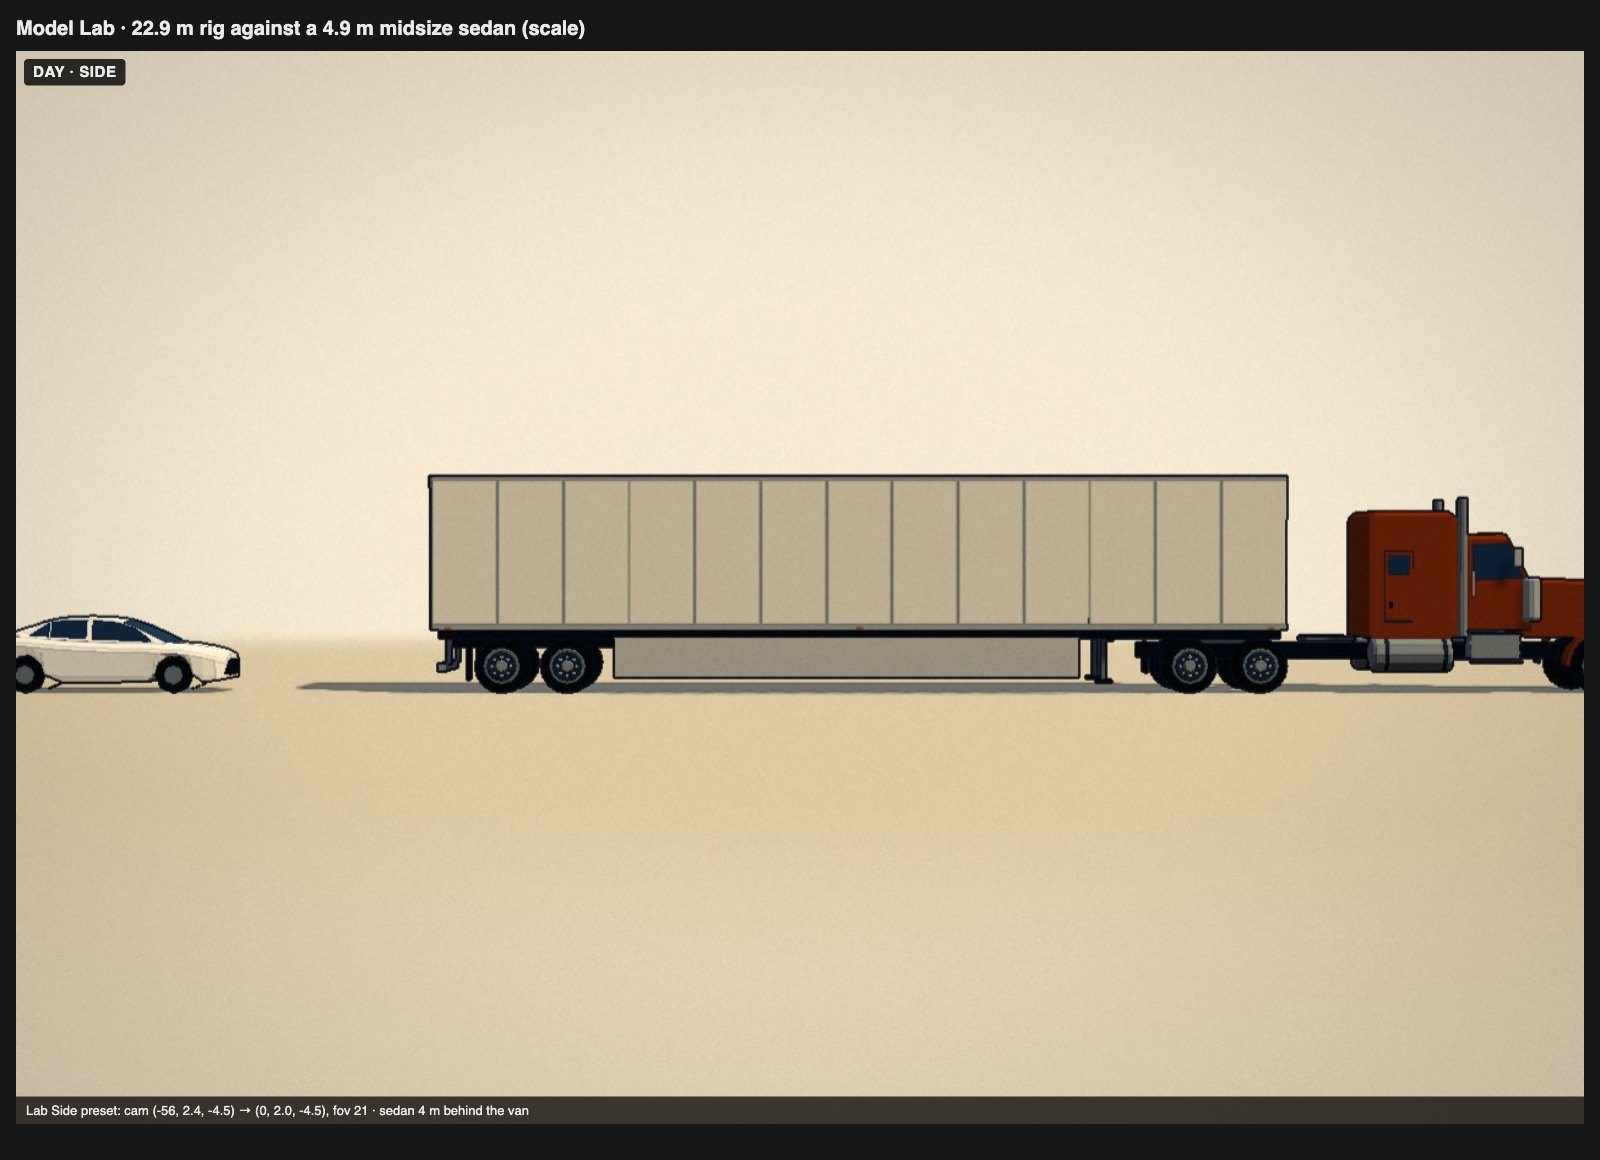
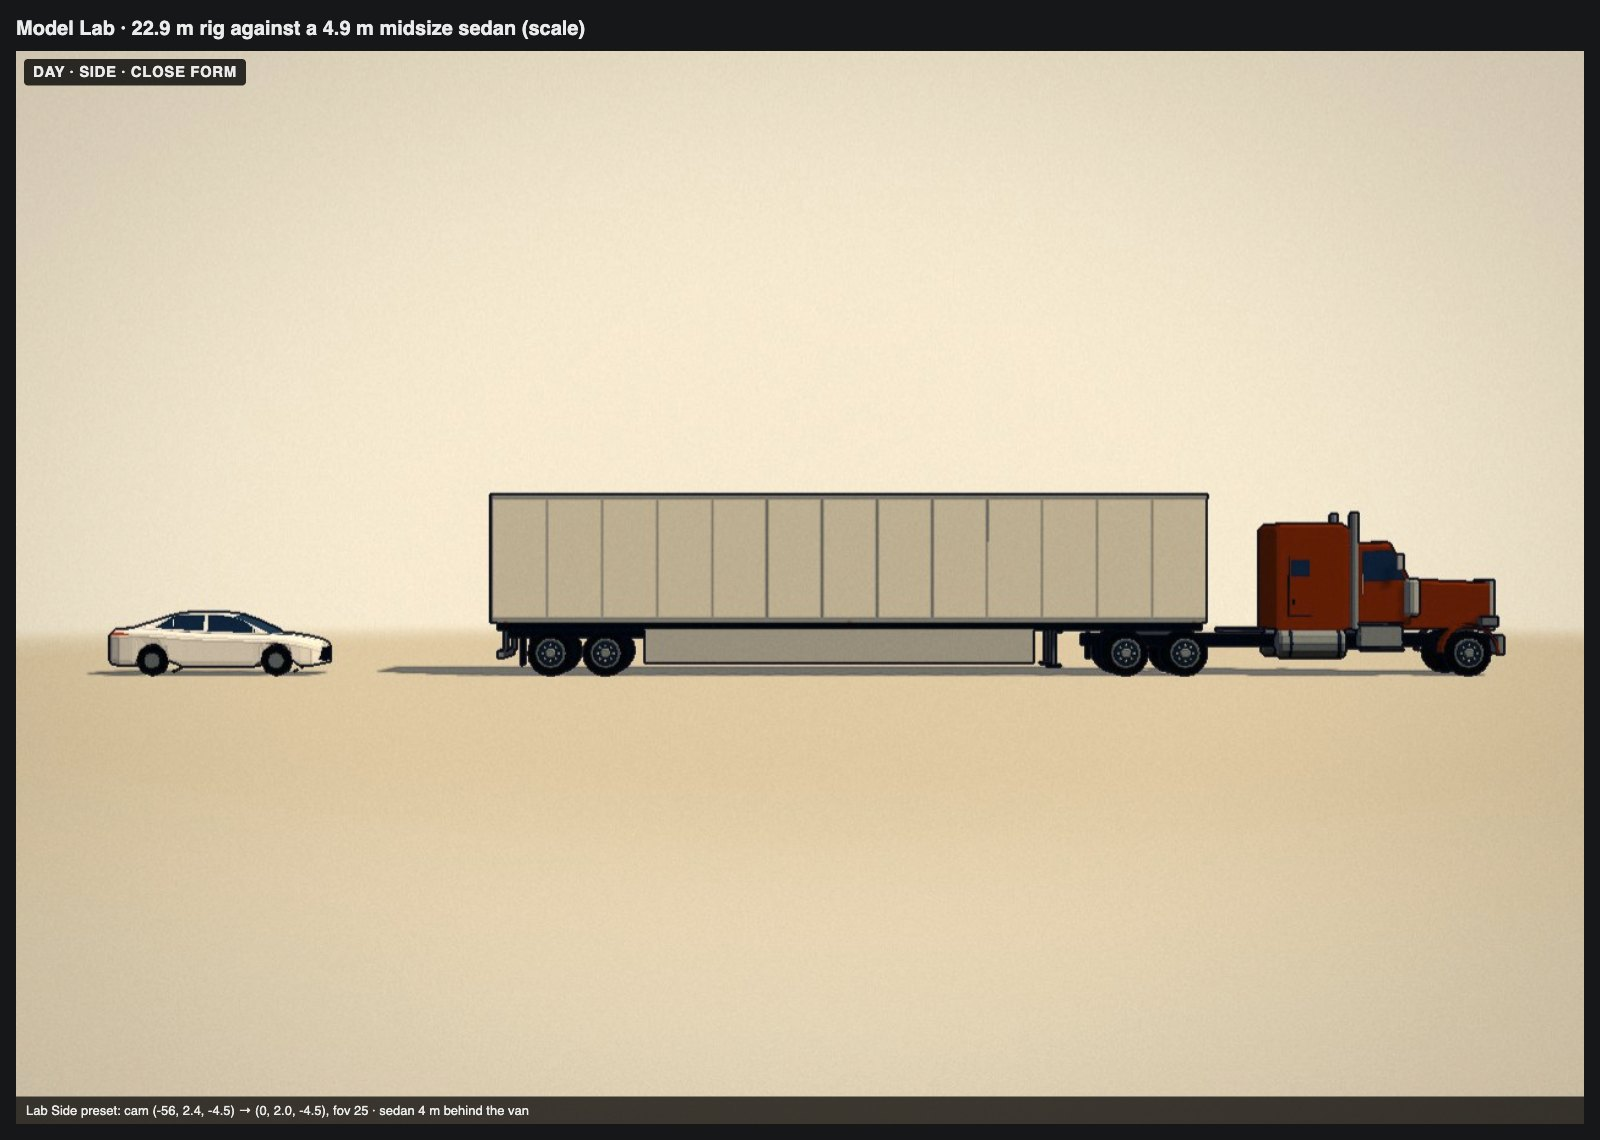
Label the semi's close form Lab-only and keep the scale sedan out of framing
City traffic draws one mesh per kind, so street-eye shows the traffic form.
Relabel the close form as Lab-only, add eye-level and side traffic-form
stills, and list the open review questions (hood height, fenders,
traffic-form detail prices, amber lamps). The scale sedan becomes a prop
that phone-width framing ignores, and the side preset widens so the
tractor's nose is no longer clipped. Correct the winding notes: the test
casts from five directions, and the 838 flipped faces are the port's.

diff --git a/web/src/models/main.ts b/web/src/models/main.ts
@@ -162,6 +162,8 @@ function isPassengerUnit(id: Model): id is keyof typeof stockNames {
   return Object.hasOwn(stockNames, id);
 }
 let cars: THREE.Mesh[] = [];
+/** Scale references drawn beside a model; camera fitting ignores them. They share the model's material. */
+let props: THREE.Mesh[] = [];
 let figure: ReturnType<typeof createFigurePreview> | undefined;
 const play = document.querySelector<HTMLButtonElement>('#play')!;
 const phase = document.querySelector<HTMLInputElement>('#phase')!;
@@ -503,6 +505,8 @@ function build() {
   }
   retiredMaterials.forEach(material => material.dispose());
   cars = [];
+  for (const p of props) { scene.remove(p); p.geometry.dispose(); }
+  props = [];
   figure?.dispose();
   figure = undefined;
   trees?.dispose();
@@ -695,19 +699,20 @@ function build() {
     return;
   }
   if (model === 'semi589') {
-    // High shows the close form (Lab, street-eye); Low shows the form City traffic draws.
+    // High shows the close form (Lab only); Low shows the form City traffic would draw at every distance.
     document.getElementById('tier')!.hidden = false;
     const near = treeQuality === 'high';
     const material = vehicleMaterial(night);
     const rig = new THREE.Mesh(roadSemiGeometry({ near, paint: SEMI_LAB_PAINT }), material);
     const sedan = new THREE.Mesh(vehicleGeometry('sedan'), material);
     sedan.position.z = -SEMI_LENGTH / 2 - 4 - LENGTH.sedan / 2;
-    cars = [rig, sedan];
-    for (const part of cars) { part.castShadow = part.receiveShadow = true; scene.add(part); }
+    cars = [rig];
+    props = [sedan];
+    for (const part of [rig, sedan]) { part.castShadow = part.receiveShadow = true; scene.add(part); }
     const triangles = (g: THREE.BufferGeometry) => (g.index ? g.index.count : g.getAttribute('position').count) / 3;
     const other = roadSemiGeometry({ near: !near }), today = vehicleGeometry('semi');
-    landscapeReport.textContent = `${near ? 'Close' : 'Traffic'} form shown. Triangles: close ${triangles(near ? rig.geometry : other).toLocaleString()} (Lab and street-eye), `
-      + `traffic ${triangles(near ? other : rig.geometry).toLocaleString()} (City High), today's rigid semi ${triangles(today).toLocaleString()}. Low draws no semis.`;
+    landscapeReport.textContent = `${near ? 'Close' : 'Traffic'} form shown. Triangles: close ${triangles(near ? rig.geometry : other).toLocaleString()} (Lab only), `
+      + `traffic ${triangles(near ? other : rig.geometry).toLocaleString()} (City High, street-eye included), today's rigid semi ${triangles(today).toLocaleString()}. Low draws no semis.`;
     other.dispose(); today.dispose();
     landscapeReport.hidden = false;
     document.getElementById('blurb')!.textContent = `A long-hood sleeper tractor in the proportions of a Peterbilt 589 (280 in wheelbase, 72 in sleeper) coupled to a generic 53 ft dry van, ${SEMI_LENGTH.toFixed(1)} m overall, with a midsize sedan behind for scale. No badges, lettering or fleet marks; traffic is illustrative. `;
@@ -1029,7 +1034,7 @@ const BUS_VIEWS: Record<string, ViewPreset> = {
 const SEMI_VIEWS: Record<string, ViewPreset> = {
   'Front': { pos: [0, 2.0, 46], target: [0, 2.0, 8], fov: 12 },
   '¾ front': { pos: [-12, 4.2, 20], target: [0, 1.9, 5.5], fov: 34 },
-  'Side': { pos: [-56, 2.4, -4.5], target: [0, 2.0, -4.5], fov: 21 },
+  'Side': { pos: [-56, 2.4, -4.5], target: [0, 2.0, -4.5], fov: 25 },
   'Rear': { pos: [6, 3.4, -46], target: [0, 2.0, -12], fov: 15 },
   'Top': { pos: [0.01, 62, -4.5], target: [0, 0, -4.5], fov: 34 },
   'Eye level': { pos: [-6.5, 1.6, 17.5], target: [0, 1.9, 6], fov: 50 },

diff --git a/web/src/vignette/road-semi.test.ts b/web/src/vignette/road-semi.test.ts
@@ -29,7 +29,7 @@ describe('road semi', () => {
     expect(near).toBeGreaterThan(far * 2);
   });
 
-  it('winds every face it shows outward, from both sides, above, front and rear', () => {
+  it('winds every face it shows outward from five directions (single-sided fender undersides face the ground)', () => {
     for (const near of [true, false]) {
       const geometry = roadSemiGeometry({ near });
       const material = new MeshBasicMaterial({ side: DoubleSide });

diff --git a/docs/road-semi.md b/docs/road-semi.md
@@ -2,7 +2,7 @@
 
 `web/src/vignette/road-semi.ts` draws a coupled tractor-trailer as one rigid body. The tractor has the proportions of a Peterbilt 589 sleeper, and the trailer is a generic 53 ft composite dry van. Neither carries a badge, oval, script, number or fleet mark. Traffic positions are `illustrative`.
 
-The Model Lab entry is **Long-hood sleeper tractor · 53 ft dry van** (`/models.html?v=semi589`). Its Detail buttons switch forms: High shows the close form used for the Lab and street-eye views, and Low shows the cheaper form City traffic would draw. A midsize sedan follows 4 m behind for scale.
+The Model Lab entry is **Long-hood sleeper tractor · 53 ft dry van** (`/models.html?v=semi589`). Its Detail buttons switch forms: High shows the close form, which only the Lab draws. Low shows the traffic form, which City would draw at every distance, street-eye included, because traffic draws one mesh per kind. A midsize sedan follows 4 m behind for scale.
 
 Status (2026-11-26): this is a Lab study awaiting Sam's approval. City traffic still draws the earlier 19.16 m rigid semi from `vehicles.ts`.
 
@@ -36,13 +36,13 @@ The earlier rigid semi in `vehicles.ts` is 19.16 m.
 
 | Form | Triangles | Vertices | Use |
 |---|---:|---:|---|
-| Close | 7,662 | 14,158 | Model Lab, street-eye |
-| Traffic | 1,370 | 2,580 | City High traffic (proposed) |
+| Close | 7,662 | 14,158 | Model Lab only |
+| Traffic | 1,370 | 2,580 | City High traffic at every distance (proposed) |
 | Today's rigid semi | 900 | 2,700 | City High traffic (current) |
 
 Low traffic draws no semis (`road-traffic.ts`), so the semi costs nothing on Low. Both forms pack into one vertex-colour draw on the shared `vehicleMaterial`, so they need no new shader program. The traffic form drops the panel seams, door hardware, grille slats, catwalk treads, fifth-wheel plate, air cleaners, cab markers and mirrors. It also uses eight-sided wheels with two-ring inner duals and six-sided tanks, stacks and fenders.
 
-The study's faces were not wound consistently. The port therefore orients every face away from an interior point. A test raycasts both forms from six directions and fails on any back face.
+The study kit's faces are not wound consistently: 838 of the close rig's 3,147 come out inside out in construction order. The port therefore orients every face away from an interior point. A test raycasts both forms from both sides, above, front and rear, and fails on any back face. Fender undersides face only the ground.
 
 ## What each part follows
 
@@ -63,6 +63,14 @@ Links only; the photographs are not committed.
 - Night: [Peterbilt 389, Dryden, Ontario, before sunrise (Wikimedia Commons)](https://commons.wikimedia.org/wiki/File:Peterbilt_389,_Dryden,_Ontario_-_Before_Sunrise.jpg)
 - Van: [Great Dane Champion factory spec](https://www.maximinc.com/media/RK614703%20-%20RK614713%20Tandem%20Dry%20Vans%20NP.pdf) · [Wabash DuraPlate build sheet](https://trailerimages.haletrailer.com/inv/docs/trailer/A029467-1.pdf) · [Wabash DuraPlate product sheet](https://onewabash.com/docs/default-source/wabash-trailer-downloads/van-trailers-product-sheets/Dry-van-duraplate-cell-core-tech.pdf) · [Hendrickson VANTRAAX](https://hendrickson-intl.com/products/vantraax/vantraax-hkant-40k) · [49 CFR 393.86 rear impact guards](https://www.ecfr.gov/current/title-49/subtitle-B/chapter-III/subchapter-B/part-393/subpart-G/section-393.86) · [California kingpin-to-rear-axle rule](https://www.dot.ca.gov/programs/traffic-operations/legal-truck-access/vehicle-lengths)
 - Origin: the everyday-cars finish study on `codex/sedan-rear-polish` (729ca2b6, 8cf37b81, de4b3d50, 08669e18).
+
+## Open questions for review
+
+- **Hood height.** The model's hood rises to 2.15 m at the cowl (study). Scaled by its tyres, the dealer side photo reads about 1.9 m. The gap is unresolved.
+- **Front fenders.** The photo shows full-coverage fenders that wrap well down the front of the steer tyre and run back to the step. The model keeps the study's thinner swept fender over the tyre crown.
+- **Traffic-form detail.** City draws one mesh per kind, so street-eye shows the traffic form: a plain grille plate, octagonal wheels and no mirrors. Approximate prices to promote details into it: grille slats and dividers +168 triangles, mirrors +72, twelve-sided outer wheels +160 (ten wheels, 16 each).
+- **Amber lamps.** Lighting the amber cab and van markers at night would need a new kind in the shared vehicle material.
+- **Eye-level ink.** In the close form, the van's far panel seams alias into a zigzag at a raking eye-level angle.
 
 ## Stills
 

diff --git a/docs/build-log.md b/docs/build-log.md
@@ -3939,4 +3939,4 @@ Capitol Gateway looked like the hardest crossing on the Connector: a knot of rai
 
 The Connector carries mostly long-haul sleepers. City drew them as a 19.16 m rigid block: a box cab and a box trailer that together cost 900 triangles. The replacement started as a finish study of a Peterbilt 589-proportioned tractor, with the hood, fenders, lamp pods, sleeper door and paired tandem tyres modelled separately. That study ended uncoupled, so it needed a real trailer. Great Dane and Wabash spec sheets supplied the 53 ft van: 102.4 in wide, 13 ft 6 in tall, a 36 in kingpin setback and landing gear 134.5 in back. Coupled at the study's fifth-wheel position, the rig measures 22.9 m from bumper to rear sill, which is 3.7 m longer than the old block. Placed 4 m ahead of a 4.9 m sedan in the Lab, it reads at that scale.
 
-The surprise was in the study's faces. Built in the study's construction order, 838 of the close form's 3,147 faces come out wound inside out. The study's own renderer had hidden that. In the single-sided traffic material they would have been holes. Instead of carrying flip flags face by face, the port turns every face away from an interior point. A raycast test from six directions fails on any back face, and it reported 5,229 when the orientation was deliberately broken. The close form costs 7,662 triangles; the traffic form keeps the silhouette for 1,370, still under the old block's vertex count. Neither needs a new shader program. [¾ front, day and night](log/road-semi/lab-day-night.jpg) · [against a sedan](log/road-semi/lab-side-scale.jpg)
+The surprise was in the winding. Built in the study kit's construction order, 838 of the close rig's 3,147 faces, the new van included, come out inside out. In the single-sided traffic material they would have been holes. Instead of carrying flip flags face by face, the port turns every face away from an interior point. A raycast test from both sides, above, front and rear fails on any back face, and it reported 5,229 when the orientation was deliberately broken. The close form costs 7,662 triangles; the traffic form keeps the silhouette for 1,370, still under the old block's vertex count. Neither needs a new shader program. [¾ front, day and night](log/road-semi/lab-day-night.jpg) · [against a sedan](log/road-semi/lab-side-scale.jpg)
